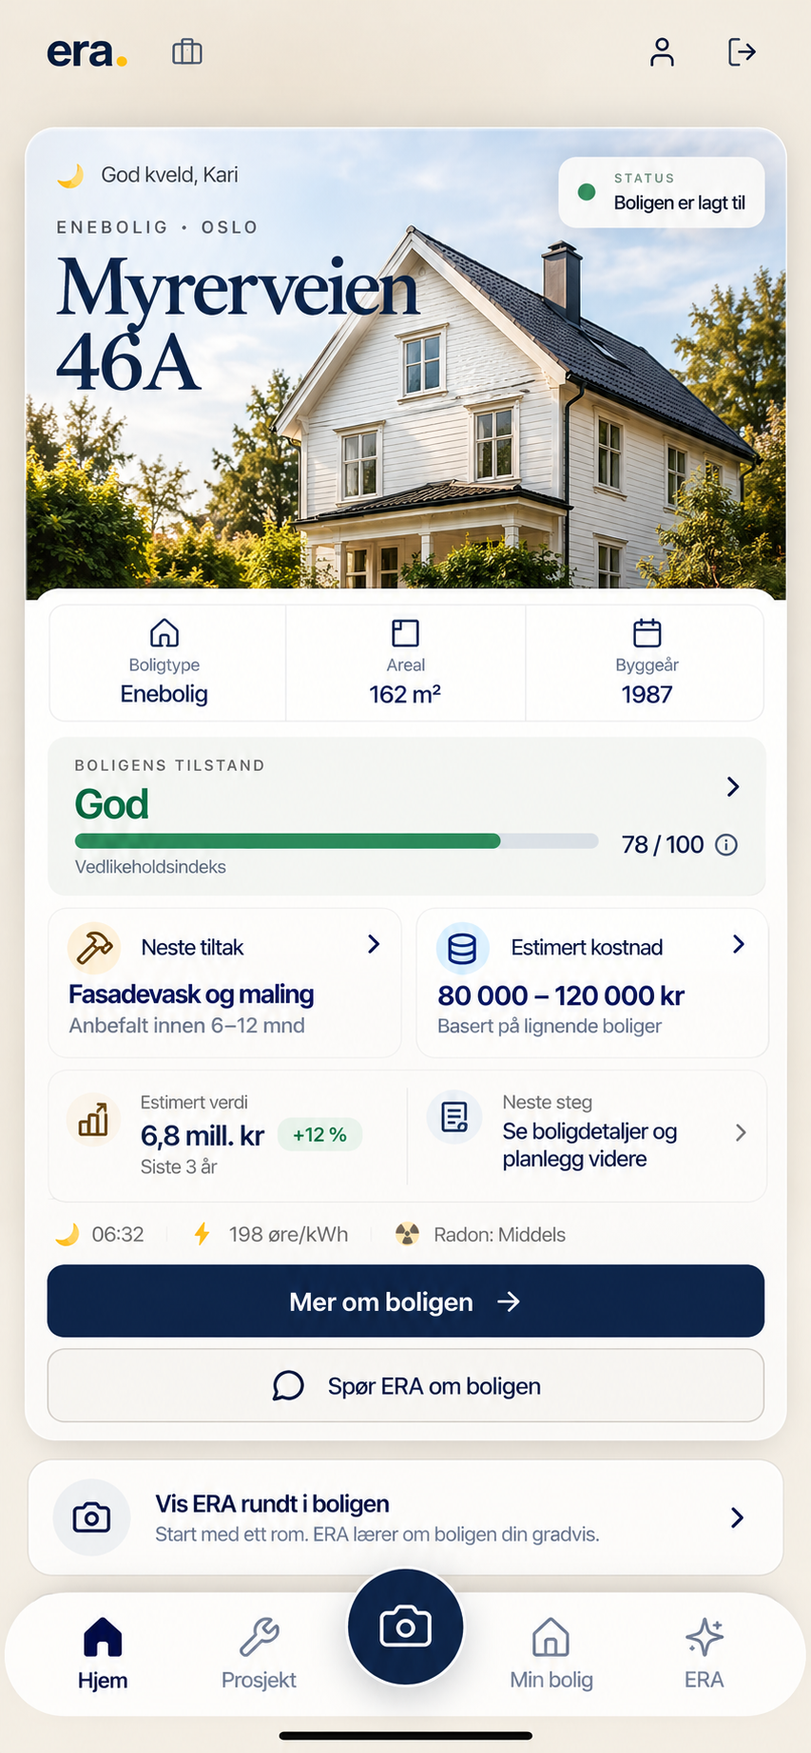
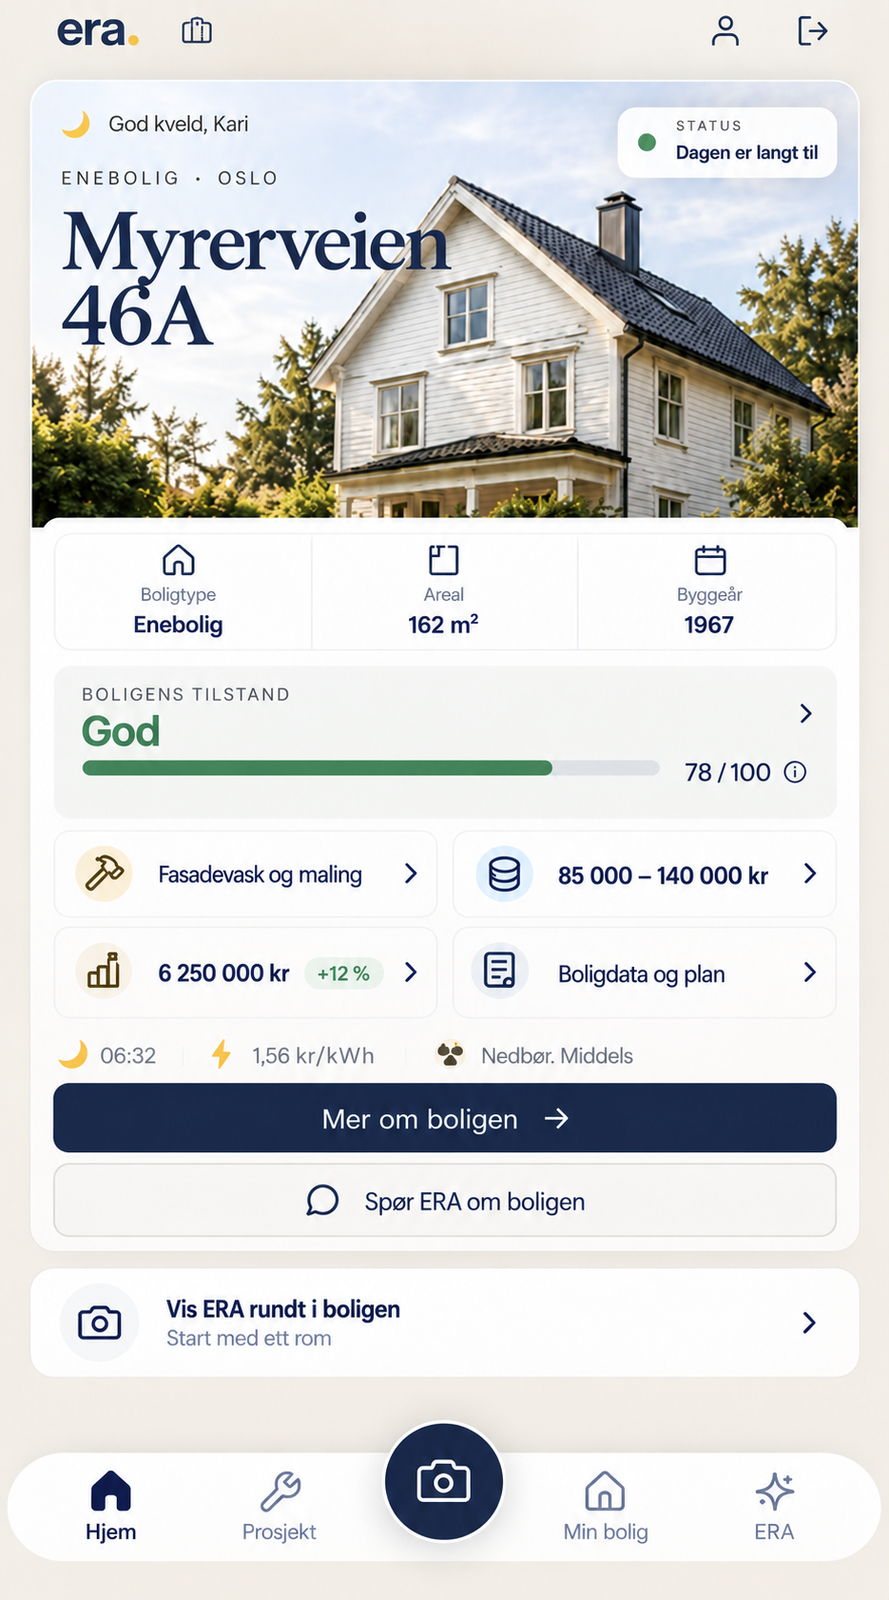
Hjem og Prosjekt med faktaarkets tall — alle fem skjermer stemmer na
Siste to skjermer byttet. Alle fem barer na 1967, 85 000-140 000 kr,
6 250 000 kr og Myrerveien 46A. PENDING_REEXPORT er tomt for forste gang,
og alt-tekstene er bundet til DEMO_HOME igjen i stedet for a beskrive
gamle tall.

Prosjekt-skjermen har ikke lenger oppgavelista. Fremdriften heter na
Kartlagt -> Tilbud -> Utfores, ikke Planlegging/Tilbud/Kontrakt/
Gjennomforing/Ferdig. Punktene under seksjonen lovet "fem oppgaver fra
stillas til sluttkontroll" og er skrevet om til det skjermen viser.

Tre ting star igjen, bevisst akseptert for a fa riktige tall ut. Ingen av
dem kan fanges av check-demo-home.py, fordi de star inne i PNG-ene:

  1. app-hjem.png: statusbrikken sier "Dagen er langt til" — ikke
     meningsbarende norsk, skal vare "Boligen er lagt til".
  2. app-hjem.png: "Nedbor. Middels" star ved siden av radon-ikonet.
  3. app-hjem.png og app-prosjekt.png er 935x1683, de tre andre
     853x1844. I loop-stripen blir de to 425px hoye mot 510px.

Alle tre er skrevet inn i README, og PENDING_REEXPORT-kommentaren sier na
eksplisitt at sperren ikke kan se inn i en PNG.

Verifisert: check-demo-home gronn uten advarsler, egen sveip 320-1920
ALL CHECKS PASSED.

diff --git a/boligeier/index.html b/boligeier/index.html
@@ -45,12 +45,12 @@
     <p class="lede">ERA forstår hva boligen din trenger, og hva som bør gjøres først. Tilstand, historikk, dokumentasjon og prioriteringer, samlet i én plan for hjemmet.</p>
     <div class="hero-actions"><a class="btn" href="#skjema">Søk om betatilgang</a><a class="link" href="#slik">Se hvordan ERA fungerer</a></div>
   </div>
-  <div class="hero-visual"><div class="pw-phone pw-phone--lg"><img src="/assets/story/app-hjem.png" width="853" height="1844" alt="ERA Bolig på mobil: forsiden for Myrerveien 46A med boligtype enebolig, 162 m², byggeår 1987, tilstand God 78 av 100, neste tiltak «Fasadevask og maling» og estimert kostnad 80 000–120 000 kr" loading="eager" fetchpriority="high" decoding="async"></div></div>
+  <div class="hero-visual"><div class="pw-phone pw-phone--lg"><img src="/assets/story/app-hjem.png" width="935" height="1683" alt="ERA Bolig på mobil: forsiden for Myrerveien 46A med boligtype enebolig, 162 m², byggeår 1967, tilstand God 78 av 100, neste tiltak «Fasadevask og maling», estimert kostnad 85 000–140 000 kr og estimert verdi 6 250 000 kr" loading="eager" fetchpriority="high" decoding="async"></div></div>
   </div>
 </header>
 
 <main>
-  <section class="section appsec alt appsec--flip" id="slik"><div class="wrap"><div class="appsec-text"><div class="label">Min bolig</div><h2>Alt om boligen. Ett sted.</h2><p class="lede">Ikke bare data fra registre. ERA bygger en levende boligprofil som utvikler seg når du legger til rom, dokumentasjon, arbeid og nye opplysninger.</p></div><div class="appsec-visual"><div class="pw-phone pw-phone--lg"><img src="/assets/story/app-minbolig.png" width="853" height="1844" alt="ERA Bolig: Min bolig for Myrerveien 46A – enebolig fra 1967 på 162 m² med tilstand God 78 av 100, neste prosjekt «Fasadevask og maling» til 85 000–140 000 kr med oppstart april 2026 og Oslo Fasade AS, estimert verdi 6 250 000 kr og samlet dokumentasjon" loading="lazy" decoding="async"></div></div></div></section><section class="section appsec"><div class="wrap"><div class="appsec-text"><div class="label">Kamera</div><h2>Vis ERA hva du ser.</h2><p class="lede">Ta et bilde av noe du lurer på. ERA analyserer det sammen med informasjonen den allerede har om boligen.</p><p class="fine dark2">Du starter med det du faktisk ser, ikke med et skjema.</p></div><div class="appsec-visual"><div class="pw-phone pw-phone--lg"><img src="/assets/story/app-kamera.png" width="853" height="1844" alt="ERA Bolig: kameraet rettet mot avflassende maling på kledningen ved et vindu, med teksten «Ta et bilde – fokuser på problemet, så analyserer ERA det for deg» og valget «Analyser med ERA»" loading="lazy" decoding="async"><p class="pw-phone-cap">Eksempeldata · Myrerveien 46A</p></div></div></div></section><section class="section appsec alt appsec--flip" id="boligagent"><div class="wrap"><div class="appsec-text"><div class="label">Boligagent</div><h2>Ikke bare et AI-svar. Et svar om boligen din.</h2><p class="lede">ERA kombinerer det du spør om eller viser med tilgjengelig informasjon om boligens alder, historikk, tilstand og tidligere arbeid.</p><ul class="appsec-points"><li><b>Hva jeg ser</b>Fasade og tak bør følges opp. Takrenner og grunnmur er i god stand.</li><li><b>Hva det betyr</b>Boligen er fra 1967. Det gjør fasade, tak og el-anlegg verdt å se nærmere på.</li><li><b>Mitt forslag</b>«Fasadevask og maling» med kostnad, oppstart og en håndverker som kan gjøre jobben.</li></ul></div><div class="appsec-visual"><div class="pw-phone pw-phone--lg"><img src="/assets/story/app-agent.png" width="853" height="1844" alt="ERA Bolig, boligagenten for Myrerveien 46A: fotoet av huset er merket av med fasade og tak til oppfølging og takrenner og grunnmur i god stand, etterfulgt av «Hva jeg ser» med de fire punktene, «Hva det betyr» for en bolig fra 1967, og forslaget «Fasadevask og maling» med estimert kostnad 85 000–140 000 kr, oppstart april 2026 og Oslo Fasade AS" loading="lazy" decoding="async"></div></div></div></section><section class="section appsec"><div class="wrap"><div class="appsec-text"><div class="label">Prosjekt</div><h2>Fra anbefaling til gjennomføring.</h2><p class="lede">Når noe bør gjøres, kan ERA gjøre anbefalingen om til et konkret prosjekt – fra planlegging og tilbud til gjennomføring og dokumentasjon.</p><ul class="appsec-points"><li><b>Planlegging</b>Omfang, oppstart og varighet.</li><li><b>Tilbud</b>Håndverker med vurderinger, klar for forespørsel.</li><li><b>Gjennomføring</b>Fem oppgaver fra stillas til sluttkontroll.</li></ul><p class="fine dark2">Fasadefunnet fra bildet er nå et prosjekt med kostnad, håndverker og oppgaver.</p></div><div class="appsec-visual"><div class="pw-phone pw-phone--lg"><img src="/assets/story/app-prosjekt.png" width="853" height="1844" alt="ERA Bolig: prosjektet «Fasadevask og maling» på Myrerveien 46A med estimert kostnad 80 000–120 000 kr, planlagt oppstart april 2026, fremdrift, håndverker og fem oppgaver" loading="lazy" decoding="async"><p class="pw-phone-cap">Eksempeldata</p></div></div></div></section><section class="section appsec appsec--flip" id="boligminne"><div class="wrap"><div class="appsec-text"><div class="label">Boligminne</div><h2>Alt som gjøres blir en del av boligen.</h2><p class="lede">Arbeid, dokumentasjon og historikk følger boligen videre – slik at du slipper å starte på nytt hver gang noe skal vedlikeholdes, vurderes eller forbedres.</p><ul class="appsec-points"><li><b>Det som er gjort</b>Bad, varmepumpe og tak ligger med år og dokumentasjon.</li><li><b>Det som kommer</b>Fasadeprosjektet fra bildet står som planlagt.</li></ul></div><div class="appsec-visual"><div class="pw-ui"><img src="/assets/story/app-boligminne.png" width="783" height="645" alt="ERA Bolig, boligminnet: tidslinjen 2020 nytt bad, 2022 varmepumpe, 2024 nytt tak og 2026 fasadevask og maling" loading="lazy" decoding="async"><p class="pw-phone-cap">Eksempeldata · Myrerveien 46A</p></div></div></div></section><section class="section alt" id="loopen"><div class="wrap wide"><div class="label">Hele loopen</div><h2>Fra spørsmål til ferdig dokumentert.</h2><div class="apploop"><div class="apploop-shot"><img src="/assets/story/app-hjem.png" width="853" height="1844" alt="ERA Bolig: forsiden for Myrerveien 46A med tilstand og neste tiltak" loading="lazy" decoding="async"></div><div class="apploop-shot"><img src="/assets/story/app-kamera.png" width="853" height="1844" alt="ERA Bolig: kameraet rettet mot avflassende maling ved et vindu" loading="lazy" decoding="async"></div><div class="apploop-shot"><img src="/assets/story/app-agent.png" width="853" height="1844" alt="ERA Bolig: boligagentens analyse av huset med funn, betydning og forslag" loading="lazy" decoding="async"></div><div class="apploop-shot"><img src="/assets/story/app-prosjekt.png" width="853" height="1844" alt="ERA Bolig: prosjektet «Fasadevask og maling» med kostnad, håndverker og oppgaver" loading="lazy" decoding="async"></div><div class="apploop-shot"><img src="/assets/story/app-minbolig.png" width="853" height="1844" alt="ERA Bolig: Min bolig med nøkkeltall, neste prosjekt, estimert verdi og dokumentasjon" loading="lazy" decoding="async"></div></div><div class="apploop-steps"><div class="apploop-step"><span class="n">01</span><b>Boligen</b><span>ERA kjenner den.</span></div><div class="apploop-step"><span class="n">02</span><b>Kamera</b><span>Vis ERA problemet.</span></div><div class="apploop-step"><span class="n">03</span><b>Boligagent</b><span>Forstå hva det betyr.</span></div><div class="apploop-step"><span class="n">04</span><b>Prosjekt</b><span>Planlegg og gjennomfør.</span></div><div class="apploop-step"><span class="n">05</span><b>Min bolig</b><span>Dokumenter og husk.</span></div></div><p class="fine dark2">Eksempeldata. Samme bolig, Myrerveien 46A, gjennom hele loopen.</p></div></section>
+  <section class="section appsec alt appsec--flip" id="slik"><div class="wrap"><div class="appsec-text"><div class="label">Min bolig</div><h2>Alt om boligen. Ett sted.</h2><p class="lede">Ikke bare data fra registre. ERA bygger en levende boligprofil som utvikler seg når du legger til rom, dokumentasjon, arbeid og nye opplysninger.</p></div><div class="appsec-visual"><div class="pw-phone pw-phone--lg"><img src="/assets/story/app-minbolig.png" width="853" height="1844" alt="ERA Bolig: Min bolig for Myrerveien 46A – enebolig fra 1967 på 162 m² med tilstand God 78 av 100, neste prosjekt «Fasadevask og maling» til 85 000–140 000 kr med oppstart april 2026 og Oslo Fasade AS, estimert verdi 6 250 000 kr og samlet dokumentasjon" loading="lazy" decoding="async"></div></div></div></section><section class="section appsec"><div class="wrap"><div class="appsec-text"><div class="label">Kamera</div><h2>Vis ERA hva du ser.</h2><p class="lede">Ta et bilde av noe du lurer på. ERA analyserer det sammen med informasjonen den allerede har om boligen.</p><p class="fine dark2">Du starter med det du faktisk ser, ikke med et skjema.</p></div><div class="appsec-visual"><div class="pw-phone pw-phone--lg"><img src="/assets/story/app-kamera.png" width="853" height="1844" alt="ERA Bolig: kameraet rettet mot avflassende maling på kledningen ved et vindu, med teksten «Ta et bilde – fokuser på problemet, så analyserer ERA det for deg» og valget «Analyser med ERA»" loading="lazy" decoding="async"><p class="pw-phone-cap">Eksempeldata · Myrerveien 46A</p></div></div></div></section><section class="section appsec alt appsec--flip" id="boligagent"><div class="wrap"><div class="appsec-text"><div class="label">Boligagent</div><h2>Ikke bare et AI-svar. Et svar om boligen din.</h2><p class="lede">ERA kombinerer det du spør om eller viser med tilgjengelig informasjon om boligens alder, historikk, tilstand og tidligere arbeid.</p><ul class="appsec-points"><li><b>Hva jeg ser</b>Fasade og tak bør følges opp. Takrenner og grunnmur er i god stand.</li><li><b>Hva det betyr</b>Boligen er fra 1967. Det gjør fasade, tak og el-anlegg verdt å se nærmere på.</li><li><b>Mitt forslag</b>«Fasadevask og maling» med kostnad, oppstart og en håndverker som kan gjøre jobben.</li></ul></div><div class="appsec-visual"><div class="pw-phone pw-phone--lg"><img src="/assets/story/app-agent.png" width="853" height="1844" alt="ERA Bolig, boligagenten for Myrerveien 46A: fotoet av huset er merket av med fasade og tak til oppfølging og takrenner og grunnmur i god stand, etterfulgt av «Hva jeg ser» med de fire punktene, «Hva det betyr» for en bolig fra 1967, og forslaget «Fasadevask og maling» med estimert kostnad 85 000–140 000 kr, oppstart april 2026 og Oslo Fasade AS" loading="lazy" decoding="async"></div></div></div></section><section class="section appsec"><div class="wrap"><div class="appsec-text"><div class="label">Prosjekt</div><h2>Fra anbefaling til gjennomføring.</h2><p class="lede">Når noe bør gjøres, kan ERA gjøre anbefalingen om til et konkret prosjekt – fra planlegging og tilbud til gjennomføring og dokumentasjon.</p><ul class="appsec-points"><li><b>Kartlagt</b>Omfang, kostnad, oppstart og varighet ligger klart: 85 000–140 000 kr, april 2026, 2–3 uker.</li><li><b>Tilbud</b>Oslo Fasade AS med 4,8 av 32 vurderinger, klar for forespørsel.</li><li><b>Utføres</b>Fremdriften følger prosjektet til det er ferdig og dokumentert.</li></ul><p class="fine dark2">Fasadefunnet fra boligagenten er nå et prosjekt med kostnad, håndverker og fremdrift.</p></div><div class="appsec-visual"><div class="pw-phone pw-phone--lg"><img src="/assets/story/app-prosjekt.png" width="935" height="1683" alt="ERA Bolig: prosjektet «Fasadevask og maling» på Myrerveien 46A med estimert kostnad 85 000–140 000 kr, oppstart april 2026 og varighet 2–3 uker, Oslo Fasade AS som utførende, status planlagt og fremdriften kartlagt, tilbud og utføres" loading="lazy" decoding="async"><p class="pw-phone-cap">Eksempeldata</p></div></div></div></section><section class="section appsec appsec--flip" id="boligminne"><div class="wrap"><div class="appsec-text"><div class="label">Boligminne</div><h2>Alt som gjøres blir en del av boligen.</h2><p class="lede">Arbeid, dokumentasjon og historikk følger boligen videre – slik at du slipper å starte på nytt hver gang noe skal vedlikeholdes, vurderes eller forbedres.</p><ul class="appsec-points"><li><b>Det som er gjort</b>Bad, varmepumpe og tak ligger med år og dokumentasjon.</li><li><b>Det som kommer</b>Fasadeprosjektet fra bildet står som planlagt.</li></ul></div><div class="appsec-visual"><div class="pw-ui"><img src="/assets/story/app-boligminne.png" width="783" height="645" alt="ERA Bolig, boligminnet: tidslinjen 2020 nytt bad, 2022 varmepumpe, 2024 nytt tak og 2026 fasadevask og maling" loading="lazy" decoding="async"><p class="pw-phone-cap">Eksempeldata · Myrerveien 46A</p></div></div></div></section><section class="section alt" id="loopen"><div class="wrap wide"><div class="label">Hele loopen</div><h2>Fra spørsmål til ferdig dokumentert.</h2><div class="apploop"><div class="apploop-shot"><img src="/assets/story/app-hjem.png" width="935" height="1683" alt="ERA Bolig: forsiden for Myrerveien 46A med tilstand og neste tiltak" loading="lazy" decoding="async"></div><div class="apploop-shot"><img src="/assets/story/app-kamera.png" width="853" height="1844" alt="ERA Bolig: kameraet rettet mot avflassende maling ved et vindu" loading="lazy" decoding="async"></div><div class="apploop-shot"><img src="/assets/story/app-agent.png" width="853" height="1844" alt="ERA Bolig: boligagentens analyse av huset med funn, betydning og forslag" loading="lazy" decoding="async"></div><div class="apploop-shot"><img src="/assets/story/app-prosjekt.png" width="935" height="1683" alt="ERA Bolig: prosjektet «Fasadevask og maling» med kostnad, håndverker og fremdrift" loading="lazy" decoding="async"></div><div class="apploop-shot"><img src="/assets/story/app-minbolig.png" width="853" height="1844" alt="ERA Bolig: Min bolig med nøkkeltall, neste prosjekt, estimert verdi og dokumentasjon" loading="lazy" decoding="async"></div></div><div class="apploop-steps"><div class="apploop-step"><span class="n">01</span><b>Boligen</b><span>ERA kjenner den.</span></div><div class="apploop-step"><span class="n">02</span><b>Kamera</b><span>Vis ERA problemet.</span></div><div class="apploop-step"><span class="n">03</span><b>Boligagent</b><span>Forstå hva det betyr.</span></div><div class="apploop-step"><span class="n">04</span><b>Prosjekt</b><span>Planlegg og gjennomfør.</span></div><div class="apploop-step"><span class="n">05</span><b>Min bolig</b><span>Dokumenter og husk.</span></div></div><p class="fine dark2">Eksempeldata. Samme bolig, Myrerveien 46A, gjennom hele loopen.</p></div></section>
 
   
 

diff --git a/tools/build-pages.py b/tools/build-pages.py
@@ -235,14 +235,11 @@ AUDIENCES = {
         label="For boligeier", hook="Boligeierskap uten gjetting.",
         lede="ERA forstår hva boligen din trenger, og hva som bør gjøres først. Tilstand, historikk, dokumentasjon og prioriteringer, samlet i én plan for hjemmet.",
         image="/assets/story/couple-sofa-v3.jpg", image_pos="55% 55%",
-        # Alt-teksten beskriver det bildet faktisk viser, ikke faktaarket. app-hjem.png er ikke
-        # eksportert på nytt ennå og viser fortsatt 1987, 6,8 mill. og 80 000–120 000 kr. En
-        # alt-tekst som fulgte DEMO_HOME ville lest opp tall som ikke står på skjermen. Se
-        # PENDING_REEXPORT i tools/check-demo-home.py.
-        app_hero=dict(src="/assets/story/app-hjem.png", w=853, h=1844, size="lg",
+        app_hero=dict(src="/assets/story/app-hjem.png", w=935, h=1683, size="lg",
                       alt=f"ERA Bolig på mobil: forsiden for {DEMO_HOME['address']} med boligtype {DEMO_HOME['type']}, "
-                          f"{DEMO_HOME['area']}, byggeår 1987, tilstand {DEMO_HOME['condition']} "
-                          f"{DEMO_HOME['score']}, neste tiltak «{DEMO_HOME['measure']}» og estimert kostnad 80 000–120 000 kr"),
+                          f"{DEMO_HOME['area']}, byggeår {DEMO_HOME['year']}, tilstand {DEMO_HOME['condition']} "
+                          f"{DEMO_HOME['score']}, neste tiltak «{DEMO_HOME['measure']}», estimert kostnad "
+                          f"{DEMO_HOME['cost']} og estimert verdi {DEMO_HOME['value']}"),
         app_sections=[
             app_section(
                 "Min bolig", "Alt om boligen. Ett sted.",
@@ -277,15 +274,15 @@ AUDIENCES = {
             app_section(
                 "Prosjekt", "Fra anbefaling til gjennomføring.",
                 "Når noe bør gjøres, kan ERA gjøre anbefalingen om til et konkret prosjekt – fra planlegging og tilbud til gjennomføring og dokumentasjon.",
-                # Som heroen: app-prosjekt.png viser fortsatt 80 000–120 000 kr.
-                phone("/assets/story/app-prosjekt.png", 853, 1844,
+                phone("/assets/story/app-prosjekt.png", 935, 1683,
                       f"ERA Bolig: prosjektet «{DEMO_HOME['measure']}» på {DEMO_HOME['address']} med estimert kostnad "
-                      f"80 000–120 000 kr, planlagt oppstart {DEMO_HOME['start']}, fremdrift, håndverker og fem oppgaver",
+                      f"{DEMO_HOME['cost']}, oppstart {DEMO_HOME['start']} og varighet {DEMO_HOME['duration']}, "
+                      f"{DEMO_HOME['pro']} som utførende, status planlagt og fremdriften kartlagt, tilbud og utføres",
                       "lg", cap="Eksempeldata"),
-                points=[("Planlegging", "Omfang, oppstart og varighet."),
-                        ("Tilbud", "Håndverker med vurderinger, klar for forespørsel."),
-                        ("Gjennomføring", "Fem oppgaver fra stillas til sluttkontroll.")],
-                foot="Fasadefunnet fra bildet er nå et prosjekt med kostnad, håndverker og oppgaver."),
+                points=[("Kartlagt", f"Omfang, kostnad, oppstart og varighet ligger klart: {DEMO_HOME['cost']}, {DEMO_HOME['start']}, {DEMO_HOME['duration']}."),
+                        ("Tilbud", f"{DEMO_HOME['pro']} med 4,8 av 32 vurderinger, klar for forespørsel."),
+                        ("Utføres", "Fremdriften følger prosjektet til det er ferdig og dokumentert.")],
+                foot="Fasadefunnet fra boligagenten er nå et prosjekt med kostnad, håndverker og fremdrift."),
             app_section(
                 "Boligminne", "Alt som gjøres blir en del av boligen.",
                 "Arbeid, dokumentasjon og historikk følger boligen videre – slik at du slipper å starte på nytt hver gang noe skal vedlikeholdes, vurderes eller forbedres.",
@@ -298,13 +295,13 @@ AUDIENCES = {
             app_loop(
                 "Hele loopen", "Fra spørsmål til ferdig dokumentert.",
                 [("Boligen", "ERA kjenner den.", "/assets/story/app-hjem.png",
-                  "ERA Bolig: forsiden for Myrerveien 46A med tilstand og neste tiltak", 853, 1844),
+                  "ERA Bolig: forsiden for Myrerveien 46A med tilstand og neste tiltak", 935, 1683),
                  ("Kamera", "Vis ERA problemet.", "/assets/story/app-kamera.png",
                   "ERA Bolig: kameraet rettet mot avflassende maling ved et vindu", 853, 1844),
                  ("Boligagent", "Forstå hva det betyr.", "/assets/story/app-agent.png",
                   "ERA Bolig: boligagentens analyse av huset med funn, betydning og forslag", 853, 1844),
                  ("Prosjekt", "Planlegg og gjennomfør.", "/assets/story/app-prosjekt.png",
-                  "ERA Bolig: prosjektet «Fasadevask og maling» med kostnad, håndverker og oppgaver", 853, 1844),
+                  "ERA Bolig: prosjektet «Fasadevask og maling» med kostnad, håndverker og fremdrift", 935, 1683),
                  ("Min bolig", "Dokumenter og husk.", "/assets/story/app-minbolig.png",
                   "ERA Bolig: Min bolig med nøkkeltall, neste prosjekt, estimert verdi og dokumentasjon", 853, 1844)],
                 "Eksempeldata. Samme bolig, Myrerveien 46A, gjennom hele loopen."),

diff --git a/tools/check-demo-home.py b/tools/check-demo-home.py
@@ -40,16 +40,15 @@ STALE_ANYWHERE = {
     "Borgveien": "gammelt gatenavn (skal vare Myrerveien)",
 }
 
-# Screens not re-exported yet. app-hjem.png and app-prosjekt.png still show these values, and the
-# alt texts describe what is on screen rather than the fact sheet — an alt text that read out the
-# fact sheet would announce numbers a sighted visitor cannot see. Reported as a warning, not a
-# failure, so the guard stays usable. Empty this dict the day both screens are re-exported: the
-# values then go back to being hard failures.
-PENDING_REEXPORT = {
-    "1987": "app-hjem.png er ikke eksportert pa nytt (skal vare 1967)",
-    "80 000–120 000": "app-hjem.png og app-prosjekt.png er ikke eksportert pa nytt (skal vare 85 000–140 000 kr)",
-    "6,8 mill": "app-hjem.png er ikke eksportert pa nytt (skal vare 6 250 000 kr)",
-}
+# Screens whose values are still stale. Empty since 11. sept. 2026: all five ERA Bolig screens now
+# carry the fact sheet. Add an entry here only as a deliberate, temporary allowance — a value that
+# is on screen and therefore in the alt text, but not yet corrected — and empty it again when the
+# screen is re-exported, so the value goes back to being a hard failure.
+#
+# NB: this guard reads generated HTML and cannot see inside a PNG. Text that appears only in a
+# screenshot is not covered. Known open items of that kind are listed in README under
+# «Produktflater på /boligeier».
+PENDING_REEXPORT = {}
 
 # Must still be present somewhere on /boligeier, so a rewrite cannot quietly drop the facts.
 REQUIRED = ["Myrerveien 46A", "1967", "85 000–140 000 kr", "6 250 000 kr", "162 m²"]

diff --git a/README.md b/README.md
@@ -120,9 +120,13 @@ Tre ulike verdier for samme bolig har rukket å gå i produksjon ved et uhell (6
 
 Sjekken leser generert HTML og **kan ikke se inn i en PNG**. Når en skjerm eksporteres på nytt, må bildet kontrolleres med øynene og alt-teksten stemmes av mot det; sperren hindrer først drift etterpå.
 
-- **Åpent (sept. 2026):** Min bolig og Boligagent er byttet til det nye datasettet (1967, 85 000–140 000 kr, 6 250 000 kr). **Hjem og Prosjekt er ikke eksportert på nytt** og viser fortsatt 1987, 6,8 mill. og 80 000–120 000 kr, så loop-stripen har to skjermer som motsier de tre andre. Det er en bevisst avveining — siden er publisert med avviket.
+- **Åpent (sept. 2026):** alle fem ERA Bolig-skjermene bærer nå faktaarket — 1967, 85 000–140 000 kr, 6 250 000 kr, Myrerveien 46A. `PENDING_REEXPORT` er derfor tom. Tre ting gjenstår, og **ingen av dem kan fanges av `check-demo-home.py`, fordi de står inne i PNG-ene**:
 
-  Alt-tekstene for de to gamle skjermene beskriver **det bildet faktisk viser**, ikke faktaarket. En alt-tekst som fulgte `DEMO_HOME` ville lest opp tall en seende besøkende ikke finner på skjermen. `PENDING_REEXPORT` i `tools/check-demo-home.py` lister nøyaktig hvilke verdier det gjelder, og rapporterer dem som advarsel i stedet for feil. **Tøm den dicten når de to skjermene er byttet** — da går verdiene tilbake til å være harde feil.
+  1. **`app-hjem.png`: statusbrikken sier «Dagen er langt til».** Det er ikke meningsbærende norsk; det skal være «Boligen er lagt til». Brikken står øverst til høyre i heroen — det første produktbildet på siden.
+  2. **`app-hjem.png`: «Nedbør. Middels» står ved siden av radon-ikonet.** Etiketten ble byttet fra radon til nedbør, ikonet ikke. Punktum der det skal være kolon.
+  3. **`app-hjem.png` og `app-prosjekt.png` er 935×1683, de tre andre 853×1844.** I loop-stripen blir de to 425 px høye mot 510 px — synlig ujevnt. Be om 853×1844 ved neste eksport, så retter det seg av seg selv.
+
+  Bevisst akseptert 11. sept. 2026 for å få riktige tall ut. Til app-teamet: bunnmenyen markerer «Hjem» som aktiv også på Min bolig- og Boligagent-skjermene.
 
 ## Placeholder-mekanikken for foto
 
